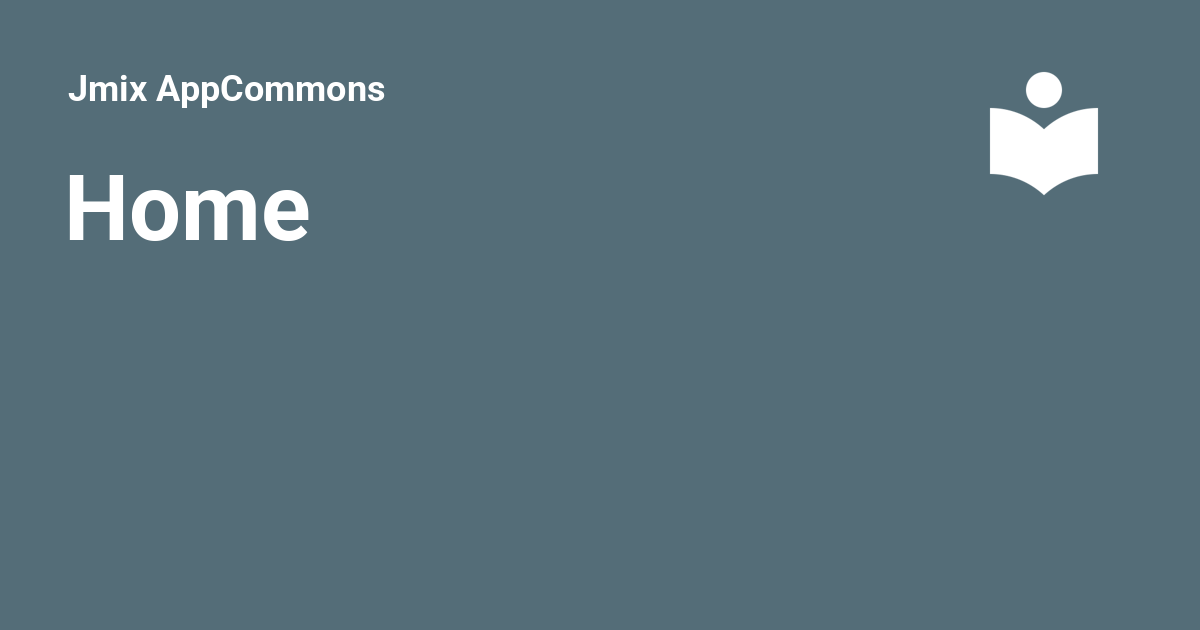
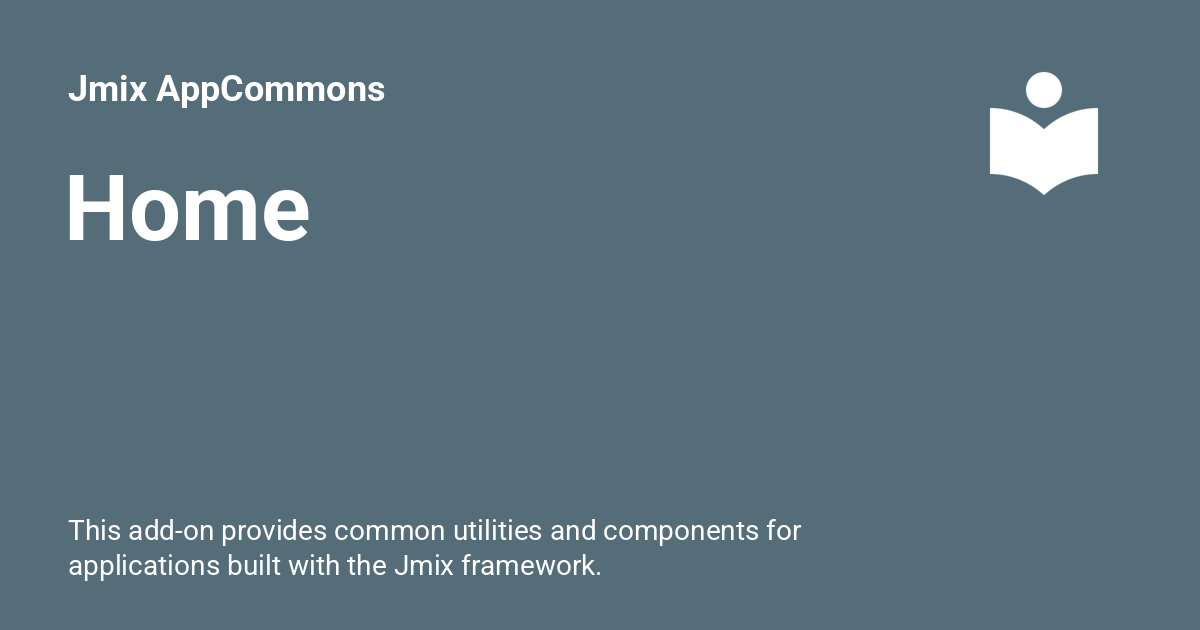
deploy: 245c4d126bf7ac3c073f4c0e85bafcebb6ce882a

Changed region(s): [[0.0617, 0.8143, 0.6783, 0.9349]]

diff --git a/index.html b/index.html
@@ -6,6 +6,8 @@
       <meta charset="utf-8">
       <meta name="viewport" content="width=device-width,initial-scale=1">
       
+        <meta name="description" content="This add-on provides common utilities and components for applications built with the Jmix framework.">
+      
       
         <meta name="author" content="Panos Bariamis">
       
@@ -59,7 +61,7 @@
       
         <meta  property="og:title"  content="Jmix AppCommons" >
       
-        <meta  property="og:description"  content="None" >
+        <meta  property="og:description"  content="This add-on provides common utilities and components for applications built with the Jmix framework." >
       
         <meta  property="og:image"  content="https://pbaris.github.io/jmix-app-commons/assets/images/social/index.png" >
       
@@ -75,7 +77,7 @@
       
         <meta  name="twitter:title"  content="Jmix AppCommons" >
       
-        <meta  name="twitter:description"  content="None" >
+        <meta  name="twitter:description"  content="This add-on provides common utilities and components for applications built with the Jmix framework." >
       
         <meta  name="twitter:image"  content="https://pbaris.github.io/jmix-app-commons/assets/images/social/index.png" >
       
@@ -679,7 +681,7 @@
     <span class="md-icon" title="Last update">
       <svg xmlns="http://www.w3.org/2000/svg" viewBox="0 0 24 24"><path d="M21 13.1c-.1 0-.3.1-.4.2l-1 1 2.1 2.1 1-1c.2-.2.2-.6 0-.8l-1.3-1.3c-.1-.1-.2-.2-.4-.2m-1.9 1.8-6.1 6V23h2.1l6.1-6.1zM12.5 7v5.2l4 2.4-1 1L11 13V7zM11 21.9c-5.1-.5-9-4.8-9-9.9C2 6.5 6.5 2 12 2c5.3 0 9.6 4.1 10 9.3-.3-.1-.6-.2-1-.2s-.7.1-1 .2C19.6 7.2 16.2 4 12 4c-4.4 0-8 3.6-8 8 0 4.1 3.1 7.5 7.1 7.9l-.1.2z"/></svg>
     </span>
-    <span class="git-revision-date-localized-plugin git-revision-date-localized-plugin-date" title="July 4, 2025 11:54:17 UTC">July 4, 2025</span>
+    <span class="git-revision-date-localized-plugin git-revision-date-localized-plugin-date" title="July 4, 2025 12:00:15 UTC">July 4, 2025</span>
   </span>
 
     
@@ -689,7 +691,7 @@
     <span class="md-icon" title="Created">
       <svg xmlns="http://www.w3.org/2000/svg" viewBox="0 0 24 24"><path d="M14.47 15.08 11 13V7h1.5v5.25l3.08 1.83c-.41.28-.79.62-1.11 1m-1.39 4.84c-.36.05-.71.08-1.08.08-4.42 0-8-3.58-8-8s3.58-8 8-8 8 3.58 8 8c0 .37-.03.72-.08 1.08.69.1 1.33.32 1.92.64.1-.56.16-1.13.16-1.72 0-5.5-4.5-10-10-10S2 6.5 2 12s4.47 10 10 10c.59 0 1.16-.06 1.72-.16-.32-.59-.54-1.23-.64-1.92M18 15v3h-3v2h3v3h2v-3h3v-2h-3v-3z"/></svg>
     </span>
-    <span class="git-revision-date-localized-plugin git-revision-date-localized-plugin-date" title="July 4, 2025 11:54:17 UTC">July 4, 2025</span>
+    <span class="git-revision-date-localized-plugin git-revision-date-localized-plugin-date" title="July 4, 2025 12:00:15 UTC">July 4, 2025</span>
   </span>
 
     

diff --git a/conventions/index.html b/conventions/index.html
@@ -820,7 +820,7 @@ explicitly define them. The default value of the property is always included.</p
     <span class="md-icon" title="Last update">
       <svg xmlns="http://www.w3.org/2000/svg" viewBox="0 0 24 24"><path d="M21 13.1c-.1 0-.3.1-.4.2l-1 1 2.1 2.1 1-1c.2-.2.2-.6 0-.8l-1.3-1.3c-.1-.1-.2-.2-.4-.2m-1.9 1.8-6.1 6V23h2.1l6.1-6.1zM12.5 7v5.2l4 2.4-1 1L11 13V7zM11 21.9c-5.1-.5-9-4.8-9-9.9C2 6.5 6.5 2 12 2c5.3 0 9.6 4.1 10 9.3-.3-.1-.6-.2-1-.2s-.7.1-1 .2C19.6 7.2 16.2 4 12 4c-4.4 0-8 3.6-8 8 0 4.1 3.1 7.5 7.1 7.9l-.1.2z"/></svg>
     </span>
-    <span class="git-revision-date-localized-plugin git-revision-date-localized-plugin-date" title="July 4, 2025 11:54:17 UTC">July 4, 2025</span>
+    <span class="git-revision-date-localized-plugin git-revision-date-localized-plugin-date" title="July 4, 2025 12:00:15 UTC">July 4, 2025</span>
   </span>
 
     
@@ -830,7 +830,7 @@ explicitly define them. The default value of the property is always included.</p
     <span class="md-icon" title="Created">
       <svg xmlns="http://www.w3.org/2000/svg" viewBox="0 0 24 24"><path d="M14.47 15.08 11 13V7h1.5v5.25l3.08 1.83c-.41.28-.79.62-1.11 1m-1.39 4.84c-.36.05-.71.08-1.08.08-4.42 0-8-3.58-8-8s3.58-8 8-8 8 3.58 8 8c0 .37-.03.72-.08 1.08.69.1 1.33.32 1.92.64.1-.56.16-1.13.16-1.72 0-5.5-4.5-10-10-10S2 6.5 2 12s4.47 10 10 10c.59 0 1.16-.06 1.72-.16-.32-.59-.54-1.23-.64-1.92M18 15v3h-3v2h3v3h2v-3h3v-2h-3v-3z"/></svg>
     </span>
-    <span class="git-revision-date-localized-plugin git-revision-date-localized-plugin-date" title="July 4, 2025 11:54:17 UTC">July 4, 2025</span>
+    <span class="git-revision-date-localized-plugin git-revision-date-localized-plugin-date" title="July 4, 2025 12:00:15 UTC">July 4, 2025</span>
   </span>
 
     

diff --git a/changelog/index.html b/changelog/index.html
@@ -645,7 +645,7 @@
     <span class="md-icon" title="Last update">
       <svg xmlns="http://www.w3.org/2000/svg" viewBox="0 0 24 24"><path d="M21 13.1c-.1 0-.3.1-.4.2l-1 1 2.1 2.1 1-1c.2-.2.2-.6 0-.8l-1.3-1.3c-.1-.1-.2-.2-.4-.2m-1.9 1.8-6.1 6V23h2.1l6.1-6.1zM12.5 7v5.2l4 2.4-1 1L11 13V7zM11 21.9c-5.1-.5-9-4.8-9-9.9C2 6.5 6.5 2 12 2c5.3 0 9.6 4.1 10 9.3-.3-.1-.6-.2-1-.2s-.7.1-1 .2C19.6 7.2 16.2 4 12 4c-4.4 0-8 3.6-8 8 0 4.1 3.1 7.5 7.1 7.9l-.1.2z"/></svg>
     </span>
-    <span class="git-revision-date-localized-plugin git-revision-date-localized-plugin-date" title="July 4, 2025 11:54:17 UTC">July 4, 2025</span>
+    <span class="git-revision-date-localized-plugin git-revision-date-localized-plugin-date" title="July 4, 2025 12:00:15 UTC">July 4, 2025</span>
   </span>
 
     
@@ -655,7 +655,7 @@
     <span class="md-icon" title="Created">
       <svg xmlns="http://www.w3.org/2000/svg" viewBox="0 0 24 24"><path d="M14.47 15.08 11 13V7h1.5v5.25l3.08 1.83c-.41.28-.79.62-1.11 1m-1.39 4.84c-.36.05-.71.08-1.08.08-4.42 0-8-3.58-8-8s3.58-8 8-8 8 3.58 8 8c0 .37-.03.72-.08 1.08.69.1 1.33.32 1.92.64.1-.56.16-1.13.16-1.72 0-5.5-4.5-10-10-10S2 6.5 2 12s4.47 10 10 10c.59 0 1.16-.06 1.72-.16-.32-.59-.54-1.23-.64-1.92M18 15v3h-3v2h3v3h2v-3h3v-2h-3v-3z"/></svg>
     </span>
-    <span class="git-revision-date-localized-plugin git-revision-date-localized-plugin-date" title="July 4, 2025 11:54:17 UTC">July 4, 2025</span>
+    <span class="git-revision-date-localized-plugin git-revision-date-localized-plugin-date" title="July 4, 2025 12:00:15 UTC">July 4, 2025</span>
   </span>
 
     

diff --git a/components/index.html b/components/index.html
@@ -590,7 +590,7 @@
     <span class="md-icon" title="Last update">
       <svg xmlns="http://www.w3.org/2000/svg" viewBox="0 0 24 24"><path d="M21 13.1c-.1 0-.3.1-.4.2l-1 1 2.1 2.1 1-1c.2-.2.2-.6 0-.8l-1.3-1.3c-.1-.1-.2-.2-.4-.2m-1.9 1.8-6.1 6V23h2.1l6.1-6.1zM12.5 7v5.2l4 2.4-1 1L11 13V7zM11 21.9c-5.1-.5-9-4.8-9-9.9C2 6.5 6.5 2 12 2c5.3 0 9.6 4.1 10 9.3-.3-.1-.6-.2-1-.2s-.7.1-1 .2C19.6 7.2 16.2 4 12 4c-4.4 0-8 3.6-8 8 0 4.1 3.1 7.5 7.1 7.9l-.1.2z"/></svg>
     </span>
-    <span class="git-revision-date-localized-plugin git-revision-date-localized-plugin-date" title="July 4, 2025 11:54:17 UTC">July 4, 2025</span>
+    <span class="git-revision-date-localized-plugin git-revision-date-localized-plugin-date" title="July 4, 2025 12:00:15 UTC">July 4, 2025</span>
   </span>
 
     
@@ -600,7 +600,7 @@
     <span class="md-icon" title="Created">
       <svg xmlns="http://www.w3.org/2000/svg" viewBox="0 0 24 24"><path d="M14.47 15.08 11 13V7h1.5v5.25l3.08 1.83c-.41.28-.79.62-1.11 1m-1.39 4.84c-.36.05-.71.08-1.08.08-4.42 0-8-3.58-8-8s3.58-8 8-8 8 3.58 8 8c0 .37-.03.72-.08 1.08.69.1 1.33.32 1.92.64.1-.56.16-1.13.16-1.72 0-5.5-4.5-10-10-10S2 6.5 2 12s4.47 10 10 10c.59 0 1.16-.06 1.72-.16-.32-.59-.54-1.23-.64-1.92M18 15v3h-3v2h3v3h2v-3h3v-2h-3v-3z"/></svg>
     </span>
-    <span class="git-revision-date-localized-plugin git-revision-date-localized-plugin-date" title="July 4, 2025 11:54:17 UTC">July 4, 2025</span>
+    <span class="git-revision-date-localized-plugin git-revision-date-localized-plugin-date" title="July 4, 2025 12:00:15 UTC">July 4, 2025</span>
   </span>
 
     

diff --git a/datatypes/index.html b/datatypes/index.html
@@ -590,7 +590,7 @@
     <span class="md-icon" title="Last update">
       <svg xmlns="http://www.w3.org/2000/svg" viewBox="0 0 24 24"><path d="M21 13.1c-.1 0-.3.1-.4.2l-1 1 2.1 2.1 1-1c.2-.2.2-.6 0-.8l-1.3-1.3c-.1-.1-.2-.2-.4-.2m-1.9 1.8-6.1 6V23h2.1l6.1-6.1zM12.5 7v5.2l4 2.4-1 1L11 13V7zM11 21.9c-5.1-.5-9-4.8-9-9.9C2 6.5 6.5 2 12 2c5.3 0 9.6 4.1 10 9.3-.3-.1-.6-.2-1-.2s-.7.1-1 .2C19.6 7.2 16.2 4 12 4c-4.4 0-8 3.6-8 8 0 4.1 3.1 7.5 7.1 7.9l-.1.2z"/></svg>
     </span>
-    <span class="git-revision-date-localized-plugin git-revision-date-localized-plugin-date" title="July 4, 2025 11:54:17 UTC">July 4, 2025</span>
+    <span class="git-revision-date-localized-plugin git-revision-date-localized-plugin-date" title="July 4, 2025 12:00:15 UTC">July 4, 2025</span>
   </span>
 
     
@@ -600,7 +600,7 @@
     <span class="md-icon" title="Created">
       <svg xmlns="http://www.w3.org/2000/svg" viewBox="0 0 24 24"><path d="M14.47 15.08 11 13V7h1.5v5.25l3.08 1.83c-.41.28-.79.62-1.11 1m-1.39 4.84c-.36.05-.71.08-1.08.08-4.42 0-8-3.58-8-8s3.58-8 8-8 8 3.58 8 8c0 .37-.03.72-.08 1.08.69.1 1.33.32 1.92.64.1-.56.16-1.13.16-1.72 0-5.5-4.5-10-10-10S2 6.5 2 12s4.47 10 10 10c.59 0 1.16-.06 1.72-.16-.32-.59-.54-1.23-.64-1.92M18 15v3h-3v2h3v3h2v-3h3v-2h-3v-3z"/></svg>
     </span>
-    <span class="git-revision-date-localized-plugin git-revision-date-localized-plugin-date" title="July 4, 2025 11:54:17 UTC">July 4, 2025</span>
+    <span class="git-revision-date-localized-plugin git-revision-date-localized-plugin-date" title="July 4, 2025 12:00:15 UTC">July 4, 2025</span>
   </span>
 
     

diff --git a/entities/index.html b/entities/index.html
@@ -688,7 +688,7 @@
     <span class="md-icon" title="Last update">
       <svg xmlns="http://www.w3.org/2000/svg" viewBox="0 0 24 24"><path d="M21 13.1c-.1 0-.3.1-.4.2l-1 1 2.1 2.1 1-1c.2-.2.2-.6 0-.8l-1.3-1.3c-.1-.1-.2-.2-.4-.2m-1.9 1.8-6.1 6V23h2.1l6.1-6.1zM12.5 7v5.2l4 2.4-1 1L11 13V7zM11 21.9c-5.1-.5-9-4.8-9-9.9C2 6.5 6.5 2 12 2c5.3 0 9.6 4.1 10 9.3-.3-.1-.6-.2-1-.2s-.7.1-1 .2C19.6 7.2 16.2 4 12 4c-4.4 0-8 3.6-8 8 0 4.1 3.1 7.5 7.1 7.9l-.1.2z"/></svg>
     </span>
-    <span class="git-revision-date-localized-plugin git-revision-date-localized-plugin-date" title="July 4, 2025 11:54:17 UTC">July 4, 2025</span>
+    <span class="git-revision-date-localized-plugin git-revision-date-localized-plugin-date" title="July 4, 2025 12:00:15 UTC">July 4, 2025</span>
   </span>
 
     
@@ -698,7 +698,7 @@
     <span class="md-icon" title="Created">
       <svg xmlns="http://www.w3.org/2000/svg" viewBox="0 0 24 24"><path d="M14.47 15.08 11 13V7h1.5v5.25l3.08 1.83c-.41.28-.79.62-1.11 1m-1.39 4.84c-.36.05-.71.08-1.08.08-4.42 0-8-3.58-8-8s3.58-8 8-8 8 3.58 8 8c0 .37-.03.72-.08 1.08.69.1 1.33.32 1.92.64.1-.56.16-1.13.16-1.72 0-5.5-4.5-10-10-10S2 6.5 2 12s4.47 10 10 10c.59 0 1.16-.06 1.72-.16-.32-.59-.54-1.23-.64-1.92M18 15v3h-3v2h3v3h2v-3h3v-2h-3v-3z"/></svg>
     </span>
-    <span class="git-revision-date-localized-plugin git-revision-date-localized-plugin-date" title="July 4, 2025 11:54:17 UTC">July 4, 2025</span>
+    <span class="git-revision-date-localized-plugin git-revision-date-localized-plugin-date" title="July 4, 2025 12:00:15 UTC">July 4, 2025</span>
   </span>
 
     

diff --git a/exceptions/index.html b/exceptions/index.html
@@ -652,7 +652,7 @@
     <span class="md-icon" title="Last update">
       <svg xmlns="http://www.w3.org/2000/svg" viewBox="0 0 24 24"><path d="M21 13.1c-.1 0-.3.1-.4.2l-1 1 2.1 2.1 1-1c.2-.2.2-.6 0-.8l-1.3-1.3c-.1-.1-.2-.2-.4-.2m-1.9 1.8-6.1 6V23h2.1l6.1-6.1zM12.5 7v5.2l4 2.4-1 1L11 13V7zM11 21.9c-5.1-.5-9-4.8-9-9.9C2 6.5 6.5 2 12 2c5.3 0 9.6 4.1 10 9.3-.3-.1-.6-.2-1-.2s-.7.1-1 .2C19.6 7.2 16.2 4 12 4c-4.4 0-8 3.6-8 8 0 4.1 3.1 7.5 7.1 7.9l-.1.2z"/></svg>
     </span>
-    <span class="git-revision-date-localized-plugin git-revision-date-localized-plugin-date" title="July 4, 2025 11:54:17 UTC">July 4, 2025</span>
+    <span class="git-revision-date-localized-plugin git-revision-date-localized-plugin-date" title="July 4, 2025 12:00:15 UTC">July 4, 2025</span>
   </span>
 
     
@@ -662,7 +662,7 @@
     <span class="md-icon" title="Created">
       <svg xmlns="http://www.w3.org/2000/svg" viewBox="0 0 24 24"><path d="M14.47 15.08 11 13V7h1.5v5.25l3.08 1.83c-.41.28-.79.62-1.11 1m-1.39 4.84c-.36.05-.71.08-1.08.08-4.42 0-8-3.58-8-8s3.58-8 8-8 8 3.58 8 8c0 .37-.03.72-.08 1.08.69.1 1.33.32 1.92.64.1-.56.16-1.13.16-1.72 0-5.5-4.5-10-10-10S2 6.5 2 12s4.47 10 10 10c.59 0 1.16-.06 1.72-.16-.32-.59-.54-1.23-.64-1.92M18 15v3h-3v2h3v3h2v-3h3v-2h-3v-3z"/></svg>
     </span>
-    <span class="git-revision-date-localized-plugin git-revision-date-localized-plugin-date" title="July 4, 2025 11:54:17 UTC">July 4, 2025</span>
+    <span class="git-revision-date-localized-plugin git-revision-date-localized-plugin-date" title="July 4, 2025 12:00:15 UTC">July 4, 2025</span>
   </span>
 
     

diff --git a/renderers/index.html b/renderers/index.html
@@ -590,7 +590,7 @@
     <span class="md-icon" title="Last update">
       <svg xmlns="http://www.w3.org/2000/svg" viewBox="0 0 24 24"><path d="M21 13.1c-.1 0-.3.1-.4.2l-1 1 2.1 2.1 1-1c.2-.2.2-.6 0-.8l-1.3-1.3c-.1-.1-.2-.2-.4-.2m-1.9 1.8-6.1 6V23h2.1l6.1-6.1zM12.5 7v5.2l4 2.4-1 1L11 13V7zM11 21.9c-5.1-.5-9-4.8-9-9.9C2 6.5 6.5 2 12 2c5.3 0 9.6 4.1 10 9.3-.3-.1-.6-.2-1-.2s-.7.1-1 .2C19.6 7.2 16.2 4 12 4c-4.4 0-8 3.6-8 8 0 4.1 3.1 7.5 7.1 7.9l-.1.2z"/></svg>
     </span>
-    <span class="git-revision-date-localized-plugin git-revision-date-localized-plugin-date" title="July 4, 2025 11:54:17 UTC">July 4, 2025</span>
+    <span class="git-revision-date-localized-plugin git-revision-date-localized-plugin-date" title="July 4, 2025 12:00:15 UTC">July 4, 2025</span>
   </span>
 
     
@@ -600,7 +600,7 @@
     <span class="md-icon" title="Created">
       <svg xmlns="http://www.w3.org/2000/svg" viewBox="0 0 24 24"><path d="M14.47 15.08 11 13V7h1.5v5.25l3.08 1.83c-.41.28-.79.62-1.11 1m-1.39 4.84c-.36.05-.71.08-1.08.08-4.42 0-8-3.58-8-8s3.58-8 8-8 8 3.58 8 8c0 .37-.03.72-.08 1.08.69.1 1.33.32 1.92.64.1-.56.16-1.13.16-1.72 0-5.5-4.5-10-10-10S2 6.5 2 12s4.47 10 10 10c.59 0 1.16-.06 1.72-.16-.32-.59-.54-1.23-.64-1.92M18 15v3h-3v2h3v3h2v-3h3v-2h-3v-3z"/></svg>
     </span>
-    <span class="git-revision-date-localized-plugin git-revision-date-localized-plugin-date" title="July 4, 2025 11:54:17 UTC">July 4, 2025</span>
+    <span class="git-revision-date-localized-plugin git-revision-date-localized-plugin-date" title="July 4, 2025 12:00:15 UTC">July 4, 2025</span>
   </span>
 
     

diff --git a/utils/index.html b/utils/index.html
@@ -590,7 +590,7 @@
     <span class="md-icon" title="Last update">
       <svg xmlns="http://www.w3.org/2000/svg" viewBox="0 0 24 24"><path d="M21 13.1c-.1 0-.3.1-.4.2l-1 1 2.1 2.1 1-1c.2-.2.2-.6 0-.8l-1.3-1.3c-.1-.1-.2-.2-.4-.2m-1.9 1.8-6.1 6V23h2.1l6.1-6.1zM12.5 7v5.2l4 2.4-1 1L11 13V7zM11 21.9c-5.1-.5-9-4.8-9-9.9C2 6.5 6.5 2 12 2c5.3 0 9.6 4.1 10 9.3-.3-.1-.6-.2-1-.2s-.7.1-1 .2C19.6 7.2 16.2 4 12 4c-4.4 0-8 3.6-8 8 0 4.1 3.1 7.5 7.1 7.9l-.1.2z"/></svg>
     </span>
-    <span class="git-revision-date-localized-plugin git-revision-date-localized-plugin-date" title="July 4, 2025 11:54:17 UTC">July 4, 2025</span>
+    <span class="git-revision-date-localized-plugin git-revision-date-localized-plugin-date" title="July 4, 2025 12:00:15 UTC">July 4, 2025</span>
   </span>
 
     
@@ -600,7 +600,7 @@
     <span class="md-icon" title="Created">
       <svg xmlns="http://www.w3.org/2000/svg" viewBox="0 0 24 24"><path d="M14.47 15.08 11 13V7h1.5v5.25l3.08 1.83c-.41.28-.79.62-1.11 1m-1.39 4.84c-.36.05-.71.08-1.08.08-4.42 0-8-3.58-8-8s3.58-8 8-8 8 3.58 8 8c0 .37-.03.72-.08 1.08.69.1 1.33.32 1.92.64.1-.56.16-1.13.16-1.72 0-5.5-4.5-10-10-10S2 6.5 2 12s4.47 10 10 10c.59 0 1.16-.06 1.72-.16-.32-.59-.54-1.23-.64-1.92M18 15v3h-3v2h3v3h2v-3h3v-2h-3v-3z"/></svg>
     </span>
-    <span class="git-revision-date-localized-plugin git-revision-date-localized-plugin-date" title="July 4, 2025 11:54:17 UTC">July 4, 2025</span>
+    <span class="git-revision-date-localized-plugin git-revision-date-localized-plugin-date" title="July 4, 2025 12:00:15 UTC">July 4, 2025</span>
   </span>
 
     

diff --git a/views/index.html b/views/index.html
@@ -590,7 +590,7 @@
     <span class="md-icon" title="Last update">
       <svg xmlns="http://www.w3.org/2000/svg" viewBox="0 0 24 24"><path d="M21 13.1c-.1 0-.3.1-.4.2l-1 1 2.1 2.1 1-1c.2-.2.2-.6 0-.8l-1.3-1.3c-.1-.1-.2-.2-.4-.2m-1.9 1.8-6.1 6V23h2.1l6.1-6.1zM12.5 7v5.2l4 2.4-1 1L11 13V7zM11 21.9c-5.1-.5-9-4.8-9-9.9C2 6.5 6.5 2 12 2c5.3 0 9.6 4.1 10 9.3-.3-.1-.6-.2-1-.2s-.7.1-1 .2C19.6 7.2 16.2 4 12 4c-4.4 0-8 3.6-8 8 0 4.1 3.1 7.5 7.1 7.9l-.1.2z"/></svg>
     </span>
-    <span class="git-revision-date-localized-plugin git-revision-date-localized-plugin-date" title="July 4, 2025 11:54:17 UTC">July 4, 2025</span>
+    <span class="git-revision-date-localized-plugin git-revision-date-localized-plugin-date" title="July 4, 2025 12:00:15 UTC">July 4, 2025</span>
   </span>
 
     
@@ -600,7 +600,7 @@
     <span class="md-icon" title="Created">
       <svg xmlns="http://www.w3.org/2000/svg" viewBox="0 0 24 24"><path d="M14.47 15.08 11 13V7h1.5v5.25l3.08 1.83c-.41.28-.79.62-1.11 1m-1.39 4.84c-.36.05-.71.08-1.08.08-4.42 0-8-3.58-8-8s3.58-8 8-8 8 3.58 8 8c0 .37-.03.72-.08 1.08.69.1 1.33.32 1.92.64.1-.56.16-1.13.16-1.72 0-5.5-4.5-10-10-10S2 6.5 2 12s4.47 10 10 10c.59 0 1.16-.06 1.72-.16-.32-.59-.54-1.23-.64-1.92M18 15v3h-3v2h3v3h2v-3h3v-2h-3v-3z"/></svg>
     </span>
-    <span class="git-revision-date-localized-plugin git-revision-date-localized-plugin-date" title="July 4, 2025 11:54:17 UTC">July 4, 2025</span>
+    <span class="git-revision-date-localized-plugin git-revision-date-localized-plugin-date" title="July 4, 2025 12:00:15 UTC">July 4, 2025</span>
   </span>
 
     
